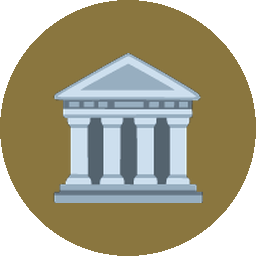
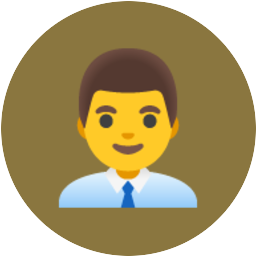
WIP

diff --git a/crates/larp-bot/src/main.rs b/crates/larp-bot/src/main.rs
@@ -96,10 +96,15 @@ async fn main() -> Result<()> {
                 decoded.device_pubkey == bundle.device_id()? && decoded.to_string() == code,
                 "QR round-trip mismatch — the contact-code format has drifted"
             );
-            qr::render_png(&code, &out, module_px)?;
+            // The QR carries the add-contact deep link, not the bare code:
+            // since dash-chat 08dc85a3 the scan path only accepts the
+            // https://dashchat.org/add-contact/{code} form (a bare code gets
+            // the "invalid contact link" toast).
+            let link = qr::contact_deep_link(&code);
+            qr::render_png(&link, &out, module_px)?;
             println!("wrote {} ({})", out.display(), bundle.character);
             if print_string {
-                println!("{code}");
+                println!("{link}");
             }
         }
         Command::Cast { identity, out } => {

diff --git a/crates/larp-bot/src/bot.rs b/crates/larp-bot/src/bot.rs
@@ -402,6 +402,19 @@ impl Bot {
             "no scenario pack for character {:?}",
             bundle.character
         );
+        // The printed QR posters embed the bundle's name; the profile the app
+        // shows comes from the pack. They must agree, or the poster greets the
+        // player with a different name than the chat that follows.
+        let pack_name = &scenarios.pack(&bundle.character).unwrap().name;
+        anyhow::ensure!(
+            bundle.qr_profile_name() == *pack_name,
+            "identity bundle name {:?} != scenario profile name {:?} for {:?} — \
+             set profile_name in secrets/{}-identity.toml and reprint the QR poster",
+            bundle.qr_profile_name(),
+            pack_name,
+            bundle.character,
+            bundle.character,
+        );
         Ok(Self {
             node,
             bundle,

diff --git a/crates/larp-bot/src/spec.rs b/crates/larp-bot/src/spec.rs
@@ -216,6 +216,18 @@ pub struct SpecBot {
 pub async fn run(config: SpecConfig) -> Result<()> {
     let bundle = IdentityBundle::load(&config.identity)?;
     let spec = Spec::load(&config.spec)?;
+    // Same agreement the character bot enforces: the name a QR or deep link
+    // embeds (bundle) must match the profile the bot publishes (spec) —
+    // the informant's deep link is minted from his bundle alone.
+    anyhow::ensure!(
+        bundle.qr_profile_name() == spec.name,
+        "identity bundle name {:?} != spec profile name {:?} for {:?} — \
+         set profile_name in secrets/{}-identity.toml",
+        bundle.qr_profile_name(),
+        spec.name,
+        bundle.character,
+        bundle.character,
+    );
 
     let (node, notification_rx) =
         crate::bot::build_node(&config.data_dir, &bundle, crate::bot::bot_node_config()).await?;

diff --git a/crates/larp-e2e/tests/e2e.rs b/crates/larp-e2e/tests/e2e.rs
@@ -205,8 +205,10 @@ async fn paste_delivery_roundtrip_and_wipe_survival() {
     let mailbox = MemMailbox::<MailboxOperation>::new();
 
     // --- The cast: two characters, generated offline like `larp-bot keygen`.
-    let mum_bundle = IdentityBundle::generate("mum");
-    let gp_bundle = IdentityBundle::generate("grandpa");
+    let mut mum_bundle = IdentityBundle::generate("mum");
+    mum_bundle.profile_name = Some("Firefighters".into());
+    let mut gp_bundle = IdentityBundle::generate("grandpa");
+    gp_bundle.profile_name = Some("Grandpa".into());
     let mut cast = Cast::default();
     cast.characters
         .insert("mum".into(), mum_bundle.cast_entry().unwrap());

diff --git a/crates/larp-bot/src/qr.rs b/crates/larp-bot/src/qr.rs
@@ -40,7 +40,9 @@ pub fn decode_contact_code(code: &str) -> Result<AddContactQrCode> {
 const DEEP_LINK_BASE_URL: &str = "https://dashchat.org";
 
 /// The app's add-contact deep link for a contact code — the informant's
-/// contact as a tappable line in a chat message.
+/// contact as a tappable line in a chat message, and the string the wall-
+/// poster QRs encode (the app's scanner accepts only this form, and it is
+/// what the app's own QR card displays).
 ///
 /// `https://…`, not the `dash-chat://` scheme the app also registers: the chat
 /// renderer only turns http(s) into an anchor (dash-chat
